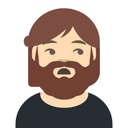
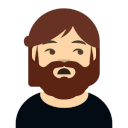
actualización de ajutes finales par ala primera version

diff --git a/CHANGELOG.md b/CHANGELOG.md
@@ -1,0 +1,26 @@
+# Changelog
+
+Todos los cambios notables de **SFTP Secure Edit** se documentan en este archivo.
+
+El formato se basa en [Keep a Changelog](https://keepachangelog.com/es-ES/1.0.0/)
+y el proyecto sigue el [Versionado Semántico](https://semver.org/lang/es/).
+
+## [1.0.0] - 2026-07-07
+
+Primera versión estable y pública en el Marketplace.
+
+### Añadido
+- **Gestión de múltiples servidores SFTP** desde una vista dedicada en la barra de actividad.
+- **Árbol de servidores** con acciones de conectar, desconectar, añadir, eliminar y refrescar.
+- **Edición remota segura** mediante un `FileSystemProvider` propio con el esquema `sftp://`, que permite abrir y guardar archivos remotos como si fueran locales.
+- **Configuración persistente y editable** en `servers.json` (almacenamiento global de la extensión), accesible con el comando *SFTP: Editar configuración (JSON)*.
+- **Protección de credenciales**: las contraseñas se guardan cifradas en `SecretStorage` y nunca en el archivo de configuración.
+- **Clave maestra de sesión** que protege las operaciones sensibles (añadir, editar y eliminar servidores).
+- Comandos contribuidos: `addServer`, `removeServer`, `connectServer`, `disconnectServer`, `refresh` y `openConfig`.
+- Icono de la extensión con fondo transparente, optimizado para los temas claro y oscuro de VSCode.
+
+### Notas
+- Publicado bajo el *Publisher ID* `jonnatech`.
+- Requiere VSCode `^1.90.0`.
+
+[1.0.0]: https://github.com/jonnattangc/sftp-secure-edit/releases/tag/v1.0.0

diff --git a/README.md b/README.md
@@ -1,6 +1,6 @@
 # SFTP Secure Edit
 
-![Version](https://img.shields.io/badge/version-0.1.2-blue)
+![Version](https://img.shields.io/badge/version-1.0.0-blue)
 ![VS Code](https://img.shields.io/badge/VS%20Code-%5E1.90.0-007ACC?logo=visualstudiocode)
 ![TypeScript](https://img.shields.io/badge/TypeScript-strict-3178C6?logo=typescript&logoColor=white)
 ![License](https://img.shields.io/badge/license-MIT-green)
@@ -46,7 +46,7 @@ Los archivos remotos se abren como pestañas nativas del editor: al pulsar **Gua
 Desde el archivo `.vsix` empaquetado:
 
 ```bash
-code --install-extension sftp-secure-edit-0.1.2.vsix
+code --install-extension sftp-secure-edit-1.0.0.vsix
 ```
 
 O desde la interfaz: vista **Extensiones** → menú **⋯** → **Install from VSIX...**.